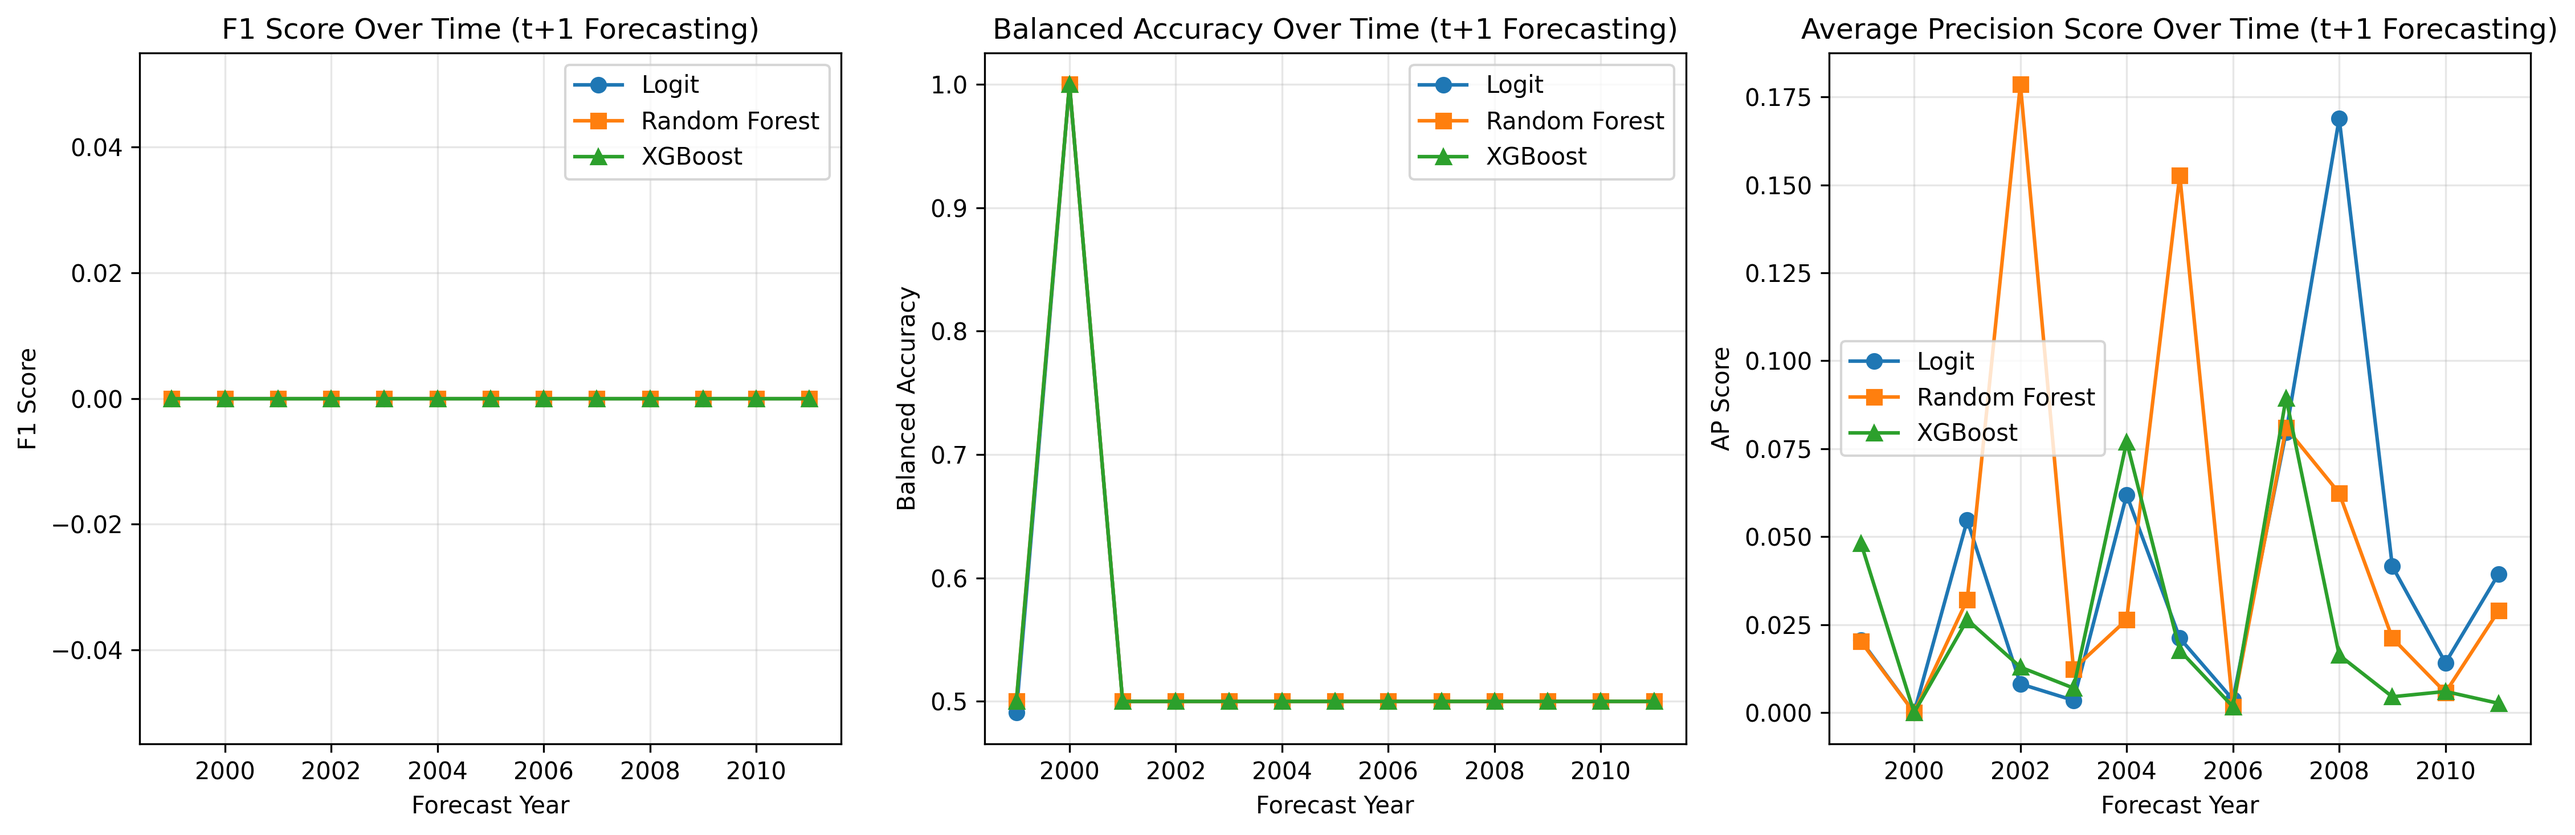
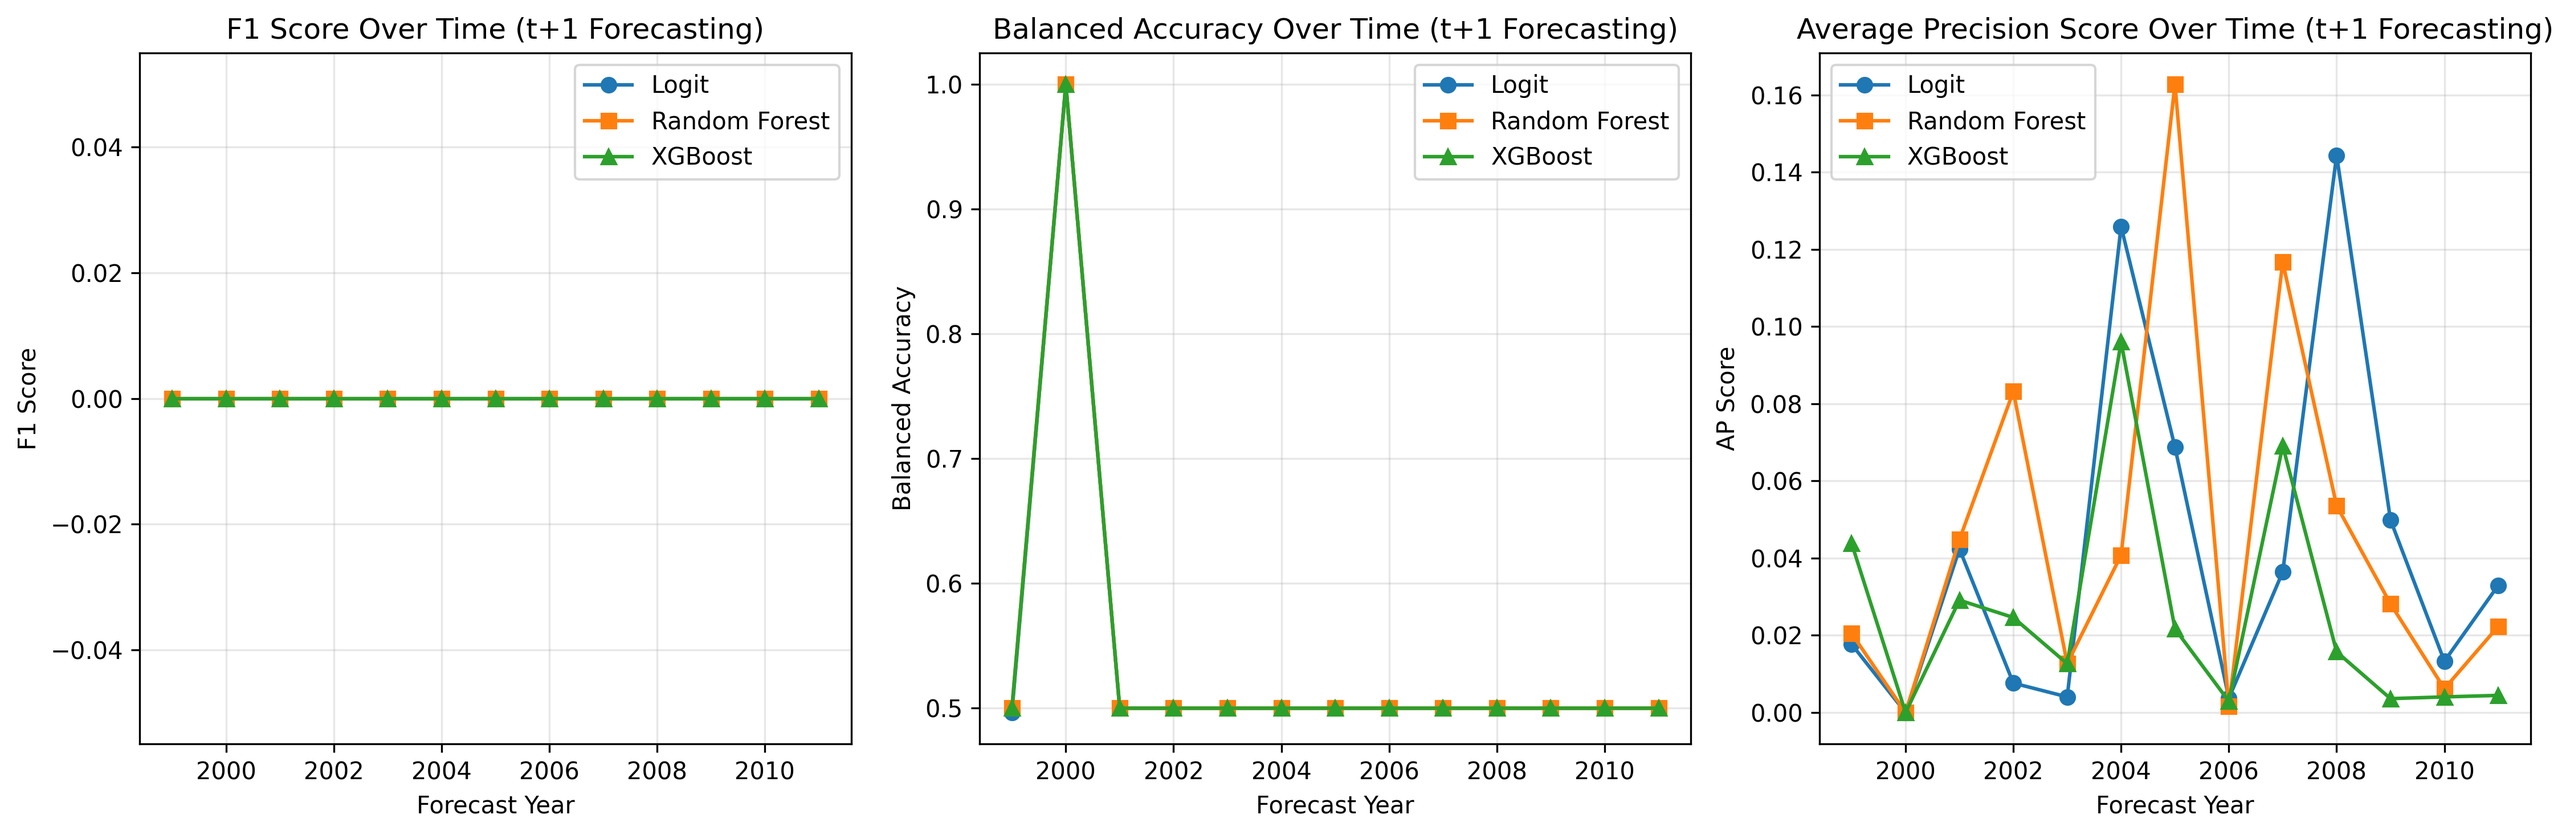
Added year dummies for decision trees.

diff --git a/ml_forecast/parinandi_forecast.py b/ml_forecast/parinandi_forecast.py
@@ -57,8 +57,23 @@ for train_end_year in range(mid_year, max_year):
     
     # Prepare features
     X_train = train_data.drop(columns = ['oneemulation', 'state'])
-    y_train = train_data['oneemulation']
     X_test = test_data.drop(columns = ['oneemulation', 'state'])
+    
+    # Create dummy variables for ALL possible years in the dataset
+    all_years = sorted(parinandi_2020['year'].unique())
+    
+    # Create dummies for train set
+    X_train = pd.get_dummies(X_train, columns = ['year'], drop_first = True)
+    
+    # Create dummies for test set
+    X_test = pd.get_dummies(X_test, columns = ['year'], drop_first = True)
+    
+    # Ensure both have the same columns by reindexing
+    all_columns = X_train.columns.union(X_test.columns)
+    X_train = X_train.reindex(columns = all_columns, fill_value = 0)
+    X_test = X_test.reindex(columns = all_columns, fill_value = 0)
+    
+    y_train = train_data['oneemulation']
     y_test = test_data['oneemulation']
     
     # Scale features
@@ -231,8 +246,23 @@ for train_end_year in range(mid_year, max_year - 4):
     
     # Prepare features
     X_train = train_data.drop(columns = ['oneemulation', 'state'])
-    y_train = train_data['oneemulation']
     X_test = test_data.drop(columns = ['oneemulation', 'state'])
+    
+    # Create dummy variables for ALL possible years in the dataset
+    all_years = sorted(parinandi_2020['year'].unique())
+    
+    # Create dummies for train set
+    X_train = pd.get_dummies(X_train, columns = ['year'], drop_first = True)
+    
+    # Create dummies for test set
+    X_test = pd.get_dummies(X_test, columns = ['year'], drop_first = True)
+    
+    # Ensure both have the same columns by reindexing
+    all_columns = X_train.columns.union(X_test.columns)
+    X_train = X_train.reindex(columns = all_columns, fill_value = 0)
+    X_test = X_test.reindex(columns = all_columns, fill_value = 0)
+    
+    y_train = train_data['oneemulation']
     y_test = test_data['oneemulation']
     
     # Scale features
@@ -405,8 +435,23 @@ for train_end_year in range(mid_year, max_year - 9):
     
     # Prepare features
     X_train = train_data.drop(columns = ['oneemulation', 'state'])
-    y_train = train_data['oneemulation']
     X_test = test_data.drop(columns = ['oneemulation', 'state'])
+    
+    # Create dummy variables for ALL possible years in the dataset
+    all_years = sorted(parinandi_2020['year'].unique())
+    
+    # Create dummies for train set
+    X_train = pd.get_dummies(X_train, columns = ['year'], drop_first = True)
+    
+    # Create dummies for test set
+    X_test = pd.get_dummies(X_test, columns = ['year'], drop_first = True)
+    
+    # Ensure both have the same columns by reindexing
+    all_columns = X_train.columns.union(X_test.columns)
+    X_train = X_train.reindex(columns = all_columns, fill_value = 0)
+    X_test = X_test.reindex(columns = all_columns, fill_value = 0)
+    
+    y_train = train_data['oneemulation']
     y_test = test_data['oneemulation']
     
     # Scale features
